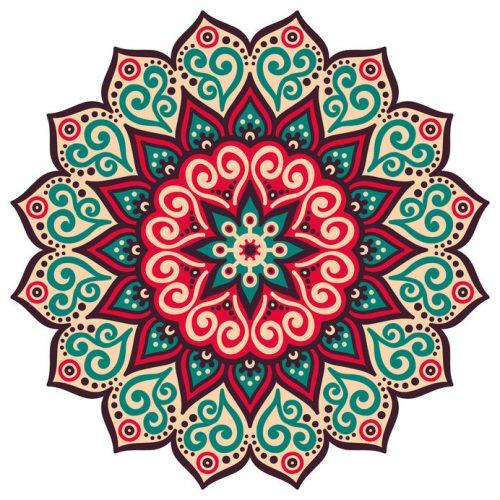
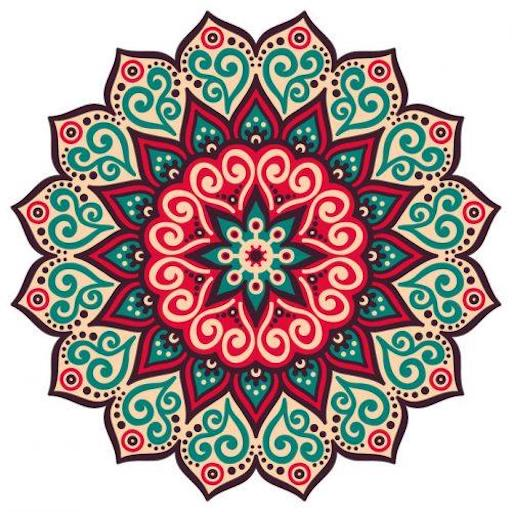
fixed madala image to be power of two

diff --git a/index.html b/index.html
@@ -51,10 +51,14 @@
       <a-sky src="#skyR" stereo="eye:right" rotation="0 200 0" geometry="thetaLength:70; thetaStart:40;"></a-sky>
       <a-sky src="#gothic" geometry="thetaLength:40;"></a-sky>
 
-      <a-circle src="#mandala" roughness= "5" radius="6" position="0 .5 0" rotation="-90 0 0"></a-circle>
+      <a-circle src="#mandala" radius="6" position="0 .5 0" rotation="-90 0 0"></a-circle>
       <a-plane material="opacity: 0.0; transparent: true" position="0 1 0" rotation="-90 0 0" width="40" height="40" static-body ></a-plane>
 
-      <a-entity light="type: spot; angle: 53; intensity: .9; penumbra: 1; color: #f0e5fc;" position="0 5 0" rotation="-73 0 -55">
+      <a-entity light="type: spot; angle: 53; intensity: .9; penumbra: 1; color: #f0e5fc;"
+        position="0 5 0"
+        rotation="-73 0 -55">
+        <!-- code for when animation primitive becomes depricated -->
+        <!-- animation="property:rotation; easing:linear; dur:5000; from:-73 0 -55; to: -73 360 -55; repeat: indefinite;" -->
         <a-animation attribute="rotation"
           easing="linear"
           dur="5000"
